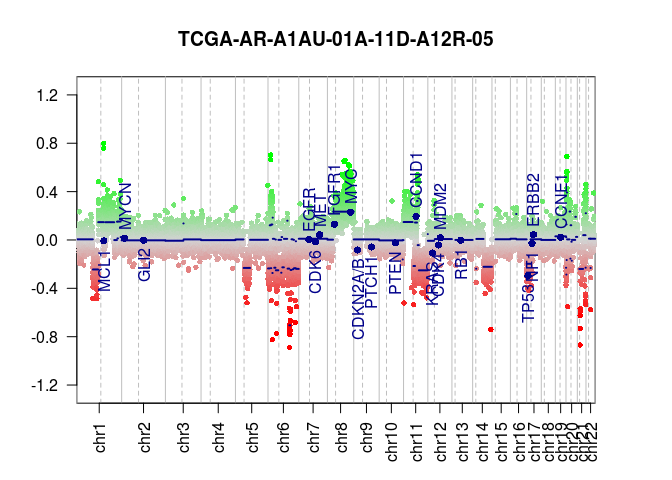
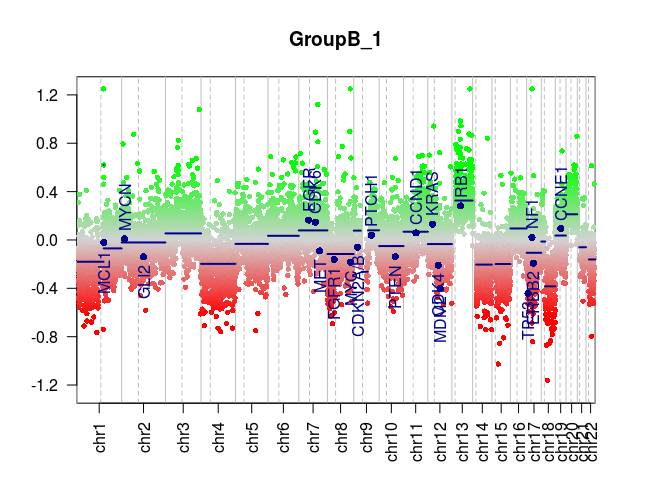
minfiData used in the vignette for Windows compatibility

diff --git a/README.md b/README.md
@@ -51,21 +51,21 @@ easier we will use the same example as in the *conumee* package.
 ``` r
 library(minfi)
 library(conumee)
+library(minfiData)
 
-RGSetTCGA <- read.450k.url()
-# Renaming of the samples
-data(tcgaBRCA.sentrix2name)
-sampleNames(RGSetTCGA) <- tcgaBRCA.sentrix2name[sampleNames(RGSetTCGA)]
-RGSetTCGA
+data(RGsetEx)
+sampleNames(RGsetEx) <- pData(RGsetEx)$Sample_Name
+cancer <- pData(RGsetEx)$status == 'cancer'
+RGsetEx <- RGsetEx[,cancer]
+RGsetEx
 #> class: RGChannelSet 
-#> dim: 622399 2 
+#> dim: 622399 3 
 #> metadata(0):
 #> assays(2): Green Red
 #> rownames(622399): 10600313 10600322 ... 74810490 74810492
 #> rowData names(0):
-#> colnames(2): TCGA-AR-A1AU-01A-11D-A12R-05
-#>   TCGA-AR-A1AY-01A-21D-A12R-05
-#> colData names(0):
+#> colnames(3): GroupB_3 GroupB_1 GroupB_2
+#> colData names(13): Sample_Name Sample_Well ... Basename filenames
 #> Annotation
 #>   array: IlluminaHumanMethylation450k
 #>   annotation: ilmn12.hg19
@@ -74,18 +74,17 @@ RGSetTCGA
 After loading the data we normalize it:
 
 ``` r
-MSetTCGA <- preprocessIllumina(RGSetTCGA)
-MSetTCGA
+MsetEx <- preprocessIllumina(RGsetEx)
+MsetEx
 #> class: MethylSet 
-#> dim: 485512 2 
+#> dim: 485512 3 
 #> metadata(0):
 #> assays(2): Meth Unmeth
 #> rownames(485512): cg00050873 cg00212031 ... ch.22.47579720R
 #>   ch.22.48274842R
 #> rowData names(0):
-#> colnames(2): TCGA-AR-A1AU-01A-11D-A12R-05
-#>   TCGA-AR-A1AY-01A-21D-A12R-05
-#> colData names(0):
+#> colnames(3): GroupB_3 GroupB_1 GroupB_2
+#> colData names(13): Sample_Name Sample_Well ... Basename filenames
 #> Annotation
 #>   array: IlluminaHumanMethylation450k
 #>   annotation: ilmn12.hg19
@@ -100,11 +99,11 @@ samples and normalize them:
 
 ``` r
 library(CopyNeutralIMA)
-ima <- annotation(MSetTCGA)[['array']]
-RGSetCtrl <- getCopyNeutralRGSet(ima)
+ima <- annotation(MsetEx)[['array']]
+RGsetCtrl <- getCopyNeutralRGSet(ima)
 # preprocess as with the sample data
-MSetCtrl <- preprocessIllumina(RGSetCtrl)
-MSetCtrl
+MsetCtrl <- preprocessIllumina(RGsetCtrl)
+MsetCtrl
 #> class: MethylSet 
 #> dim: 485512 51 
 #> metadata(0):
@@ -142,22 +141,22 @@ anno <- CNV.create_anno(array_type = "450k", exclude_regions = exclude_regions, 
 #>  - 15820 bins remaining
 
 # load in the data from the reference and samples to be analyzed
-control.data <- CNV.load(MSetCtrl)
-tcga.data <- CNV.load(MSetTCGA)
+control.data <- CNV.load(MsetCtrl)
+ex.data <- CNV.load(MsetEx)
 
-cnv <- CNV.fit(tcga.data["TCGA-AR-A1AU-01A-11D-A12R-05"], control.data, anno)
+cnv <- CNV.fit(ex.data["GroupB_1"], control.data, anno)
 cnv <- CNV.bin(cnv)
 cnv <- CNV.detail(cnv)
 cnv <- CNV.segment(cnv)
 cnv
 #> CNV analysis object
-#>    created   : Tue Jul 10 15:55:26 2018
-#>   @name      : TCGA-AR-A1AU-01A-11D-A12R-05
+#>    created   : Mon Jul 16 10:11:11 2018
+#>   @name      : GroupB_1
 #>   @anno      : 22 chromosomes, 470870 probes, 15820 bins
-#>   @fit       : available (noise: 0.404)
-#>   @bin       : available (shift: -0.009)
+#>   @fit       : available (noise: 2.32)
+#>   @bin       : available (shift: 0.005)
 #>   @detail    : available (20 regions)
-#>   @seg       : available (95 segments)
+#>   @seg       : available (27 segments)
 
 CNV.genomeplot(cnv)
 ```
@@ -173,28 +172,28 @@ CNV.genomeplot(cnv, chr = 'chr6')
 ``` r
 
 head(CNV.write(cnv, what = 'segments'))
-#>                             ID chrom loc.start   loc.end num.mark    bstat
-#> 1 TCGA-AR-A1AU-01A-11D-A12R-05  chr1    635684  89150000      728 50.32376
-#> 2 TCGA-AR-A1AU-01A-11D-A12R-05  chr1  89400000 118475000      161 29.95050
-#> 3 TCGA-AR-A1AU-01A-11D-A12R-05  chr1 119000000 150150000       55 11.62070
-#> 4 TCGA-AR-A1AU-01A-11D-A12R-05  chr1 150225000 158500000      105 19.54834
-#> 5 TCGA-AR-A1AU-01A-11D-A12R-05  chr1 158700000 208075000      283 17.82370
-#> 6 TCGA-AR-A1AU-01A-11D-A12R-05  chr1 208125000 222950000       77  8.46673
-#>            pval seg.mean seg.median
-#> 1  0.000000e+00    0.004      0.005
-#> 2 8.999228e-195   -0.249     -0.244
-#> 3  3.650267e-29    0.198      0.147
-#> 4  1.243556e-82    0.014      0.008
-#> 5  1.208520e-68    0.158      0.147
-#> 6  1.570727e-15    0.006     -0.001
+#>         ID chrom loc.start   loc.end num.mark    bstat          pval
+#> 1 GroupB_1  chr1    635684 148927230      931 21.47571  1.422312e-99
+#> 2 GroupB_1  chr1 149077230 149379823        5 26.04475 7.787661e-147
+#> 3 GroupB_1  chr1 149579823 249195311      657       NA            NA
+#> 4 GroupB_1 chr10    105000 135462374      840       NA            NA
+#> 5 GroupB_1 chr11    130000 134873258      914       NA            NA
+#> 6 GroupB_1 chr12    172870 133770948      848       NA            NA
+#>   seg.mean seg.median
+#> 1   -0.194     -0.180
+#> 2    3.058      0.621
+#> 3   -0.077     -0.070
+#> 4   -0.054     -0.050
+#> 5    0.081      0.068
+#> 6   -0.030     -0.034
 head(CNV.write(cnv, what='probes'))
-#>   Chromosome Start   End    Feature TCGA-AR-A1AU-01A-11D-A12R-05
-#> 1       chr1 15864 15865 cg13869341                        0.132
-#> 2       chr1 18826 18827 cg14008030                        0.064
-#> 3       chr1 29406 29407 cg12045430                        0.127
-#> 4       chr1 29424 29425 cg20826792                        0.169
-#> 5       chr1 29434 29435 cg00381604                        0.014
-#> 6       chr1 68848 68849 cg20253340                        0.021
+#>   Chromosome Start   End    Feature GroupB_1
+#> 1       chr1 15864 15865 cg13869341   -0.064
+#> 2       chr1 18826 18827 cg14008030   -0.321
+#> 3       chr1 29406 29407 cg12045430    0.109
+#> 4       chr1 29424 29425 cg20826792   -0.264
+#> 5       chr1 29434 29435 cg00381604   -0.069
+#> 6       chr1 68848 68849 cg20253340   -0.360
 ```
 
 # Session info
@@ -220,7 +219,7 @@ head(CNV.write(cnv, what='probes'))
     #> [8] methods   base     
     #> 
     #> other attached packages:
-    #>  [1] CopyNeutralIMA_0.0.0.9000                          
+    #>  [1] minfiData_0.27.0                                   
     #>  [2] conumee_1.15.0                                     
     #>  [3] IlluminaHumanMethylationEPICmanifest_0.3.0         
     #>  [4] IlluminaHumanMethylationEPICanno.ilm10b2.hg19_0.6.0
@@ -229,73 +228,76 @@ head(CNV.write(cnv, what='probes'))
     #>  [7] minfi_1.27.5                                       
     #>  [8] bumphunter_1.23.0                                  
     #>  [9] locfit_1.5-9.1                                     
-    #> [10] iterators_1.0.9                                    
+    #> [10] iterators_1.0.10                                   
     #> [11] foreach_1.4.4                                      
     #> [12] Biostrings_2.49.0                                  
     #> [13] XVector_0.21.3                                     
     #> [14] SummarizedExperiment_1.11.5                        
     #> [15] DelayedArray_0.7.19                                
-    #> [16] BiocParallel_1.15.6                                
+    #> [16] BiocParallel_1.15.7                                
     #> [17] matrixStats_0.53.1                                 
     #> [18] Biobase_2.40.0                                     
-    #> [19] GenomicRanges_1.33.6                               
+    #> [19] GenomicRanges_1.33.7                               
     #> [20] GenomeInfoDb_1.17.1                                
     #> [21] IRanges_2.15.14                                    
     #> [22] S4Vectors_0.19.17                                  
     #> [23] BiocGenerics_0.27.1                                
+    #> [24] CopyNeutralIMA_0.99.7                              
     #> 
     #> loaded via a namespace (and not attached):
     #>   [1] siggenes_1.55.0               mclust_5.4.1                 
     #>   [3] rprojroot_1.3-2               DNAcopy_1.55.0               
-    #>   [5] base64_2.0                    bit64_0.9-7                  
-    #>   [7] interactiveDisplayBase_1.18.0 AnnotationDbi_1.42.0         
-    #>   [9] xml2_1.2.0                    codetools_0.2-15             
-    #>  [11] splines_3.5.0                 knitr_1.20                   
-    #>  [13] Rsamtools_1.33.2              annotate_1.59.0              
-    #>  [15] shiny_1.0.5                   HDF5Array_1.9.5              
-    #>  [17] readr_1.1.1                   compiler_3.5.0               
-    #>  [19] httr_1.3.1                    backports_1.1.2              
-    #>  [21] assertthat_0.2.0              Matrix_1.2-14                
-    #>  [23] limma_3.37.2                  later_0.7.2                  
-    #>  [25] htmltools_0.3.6               prettyunits_1.0.2            
-    #>  [27] tools_3.5.0                   bindrcpp_0.2.2               
-    #>  [29] glue_1.2.0                    GenomeInfoDbData_1.1.0       
-    #>  [31] dplyr_0.7.6                   doRNG_1.7.1                  
-    #>  [33] Rcpp_0.12.16                  multtest_2.37.0              
-    #>  [35] preprocessCore_1.43.0         nlme_3.1-137                 
-    #>  [37] ExperimentHub_1.6.0           rtracklayer_1.41.3           
-    #>  [39] DelayedMatrixStats_1.3.4      gbRd_0.4-11                  
-    #>  [41] stringr_1.3.1                 mime_0.5                     
-    #>  [43] rngtools_1.3.1                XML_3.98-1.11                
-    #>  [45] beanplot_1.2                  AnnotationHub_2.12.0         
-    #>  [47] zlibbioc_1.27.0               MASS_7.3-50                  
-    #>  [49] BiocInstaller_1.31.1          promises_1.0.1               
-    #>  [51] hms_0.4.2                     rhdf5_2.25.4                 
-    #>  [53] GEOquery_2.49.0               RColorBrewer_1.1-2           
-    #>  [55] curl_3.2                      yaml_2.1.19                  
-    #>  [57] memoise_1.1.0                 pkgmaker_0.27                
-    #>  [59] biomaRt_2.37.3                reshape_0.8.7                
-    #>  [61] stringi_1.2.3                 RSQLite_2.1.0                
-    #>  [63] genefilter_1.63.0             GenomicFeatures_1.33.0       
-    #>  [65] bibtex_0.4.2                  Rdpack_0.8-3                 
-    #>  [67] rlang_0.2.0                   pkgconfig_2.0.1              
-    #>  [69] bitops_1.0-6                  nor1mix_1.2-3                
-    #>  [71] evaluate_0.10.1               lattice_0.20-35              
-    #>  [73] purrr_0.2.5                   Rhdf5lib_1.3.1               
-    #>  [75] bindr_0.1.1                   GenomicAlignments_1.17.2     
-    #>  [77] bit_1.1-12                    tidyselect_0.2.4             
-    #>  [79] plyr_1.8.4                    magrittr_1.5                 
-    #>  [81] R6_2.2.2                      DBI_1.0.0                    
-    #>  [83] pillar_1.2.3                  withr_2.1.2                  
-    #>  [85] survival_2.42-3               RCurl_1.95-4.10              
-    #>  [87] tibble_1.4.2                  crayon_1.3.4                 
-    #>  [89] rmarkdown_1.10                progress_1.2.0               
-    #>  [91] grid_3.5.0                    data.table_1.11.4            
-    #>  [93] blob_1.1.1                    digest_0.6.15                
-    #>  [95] xtable_1.8-2                  tidyr_0.8.1                  
-    #>  [97] httpuv_1.4.1                  illuminaio_0.23.0            
-    #>  [99] openssl_1.0.1                 registry_0.5                 
-    #> [101] quadprog_1.5-5
+    #>   [5] base64_2.0                    roxygen2_6.0.1               
+    #>   [7] bit64_0.9-7                   interactiveDisplayBase_1.18.0
+    #>   [9] AnnotationDbi_1.42.0          xml2_1.2.0                   
+    #>  [11] codetools_0.2-15              splines_3.5.0                
+    #>  [13] knitr_1.20                    Rsamtools_1.33.2             
+    #>  [15] annotate_1.59.0               shiny_1.0.5                  
+    #>  [17] HDF5Array_1.9.5               readr_1.1.1                  
+    #>  [19] compiler_3.5.0                httr_1.3.1                   
+    #>  [21] backports_1.1.2               assertthat_0.2.0             
+    #>  [23] Matrix_1.2-14                 limma_3.37.3                 
+    #>  [25] later_0.7.2                   htmltools_0.3.6              
+    #>  [27] prettyunits_1.0.2             tools_3.5.0                  
+    #>  [29] bindrcpp_0.2.2                glue_1.2.0                   
+    #>  [31] GenomeInfoDbData_1.1.0        dplyr_0.7.6                  
+    #>  [33] doRNG_1.7.1                   Rcpp_0.12.16                 
+    #>  [35] multtest_2.37.0               preprocessCore_1.43.0        
+    #>  [37] nlme_3.1-137                  ExperimentHub_1.6.0          
+    #>  [39] rtracklayer_1.41.3            DelayedMatrixStats_1.3.4     
+    #>  [41] gbRd_0.4-11                   stringr_1.3.1                
+    #>  [43] mime_0.5                      rngtools_1.3.1               
+    #>  [45] devtools_1.13.6               XML_3.98-1.12                
+    #>  [47] beanplot_1.2                  AnnotationHub_2.12.0         
+    #>  [49] zlibbioc_1.27.0               MASS_7.3-50                  
+    #>  [51] BiocInstaller_1.31.1          hms_0.4.2                    
+    #>  [53] promises_1.0.1                rhdf5_2.25.4                 
+    #>  [55] GEOquery_2.49.0               RColorBrewer_1.1-2           
+    #>  [57] curl_3.2                      yaml_2.1.19                  
+    #>  [59] memoise_1.1.0                 pkgmaker_0.27                
+    #>  [61] biomaRt_2.37.3                reshape_0.8.7                
+    #>  [63] stringi_1.2.3                 RSQLite_2.1.0                
+    #>  [65] genefilter_1.63.0             desc_1.2.0                   
+    #>  [67] GenomicFeatures_1.33.0        bibtex_0.4.2                 
+    #>  [69] Rdpack_0.8-0                  rlang_0.2.0                  
+    #>  [71] pkgconfig_2.0.1               commonmark_1.5               
+    #>  [73] bitops_1.0-6                  nor1mix_1.2-3                
+    #>  [75] evaluate_0.10.1               lattice_0.20-35              
+    #>  [77] purrr_0.2.5                   Rhdf5lib_1.3.1               
+    #>  [79] bindr_0.1.1                   GenomicAlignments_1.17.2     
+    #>  [81] bit_1.1-12                    tidyselect_0.2.4             
+    #>  [83] plyr_1.8.4                    magrittr_1.5                 
+    #>  [85] R6_2.2.2                      DBI_1.0.0                    
+    #>  [87] pillar_1.3.0                  withr_2.1.2                  
+    #>  [89] survival_2.42-3               RCurl_1.95-4.11              
+    #>  [91] tibble_1.4.2                  crayon_1.3.4                 
+    #>  [93] rmarkdown_1.10                progress_1.2.0               
+    #>  [95] grid_3.5.0                    data.table_1.11.4            
+    #>  [97] blob_1.1.1                    digest_0.6.15                
+    #>  [99] xtable_1.8-2                  tidyr_0.8.1                  
+    #> [101] httpuv_1.4.1                  illuminaio_0.23.0            
+    #> [103] openssl_1.0.1                 registry_0.5                 
+    #> [105] quadprog_1.5-5
 
 # References
 
